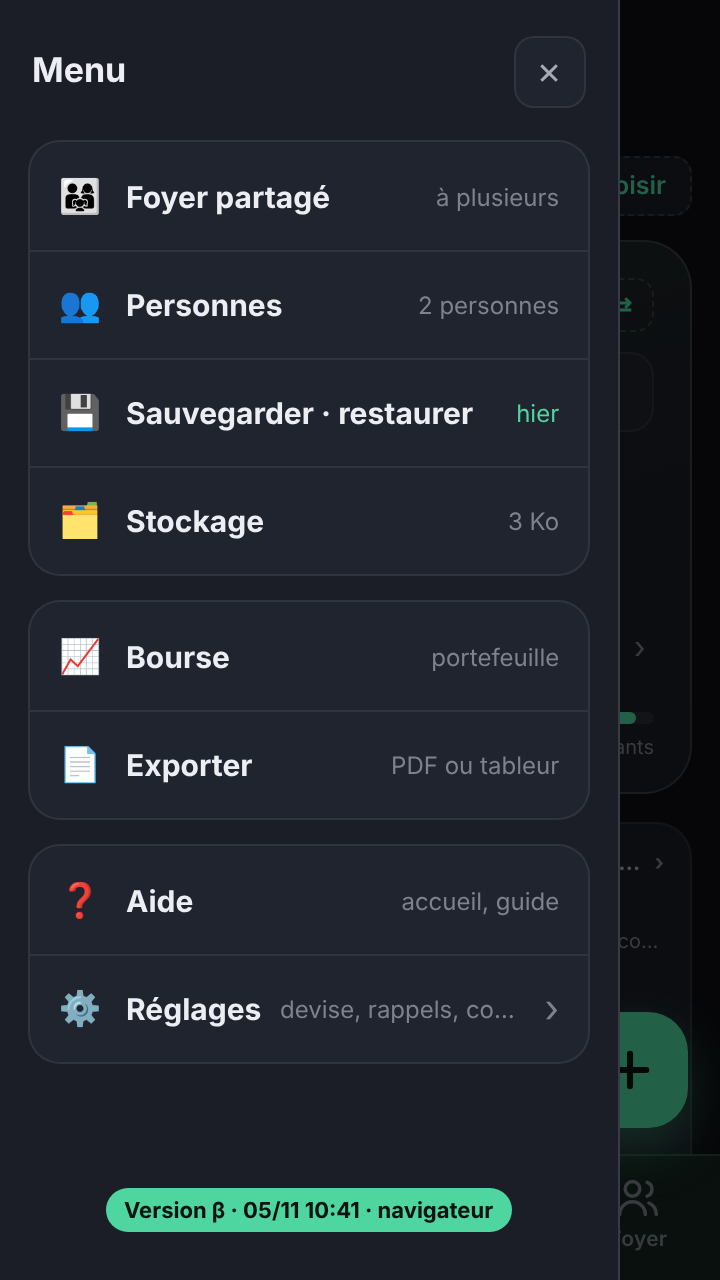
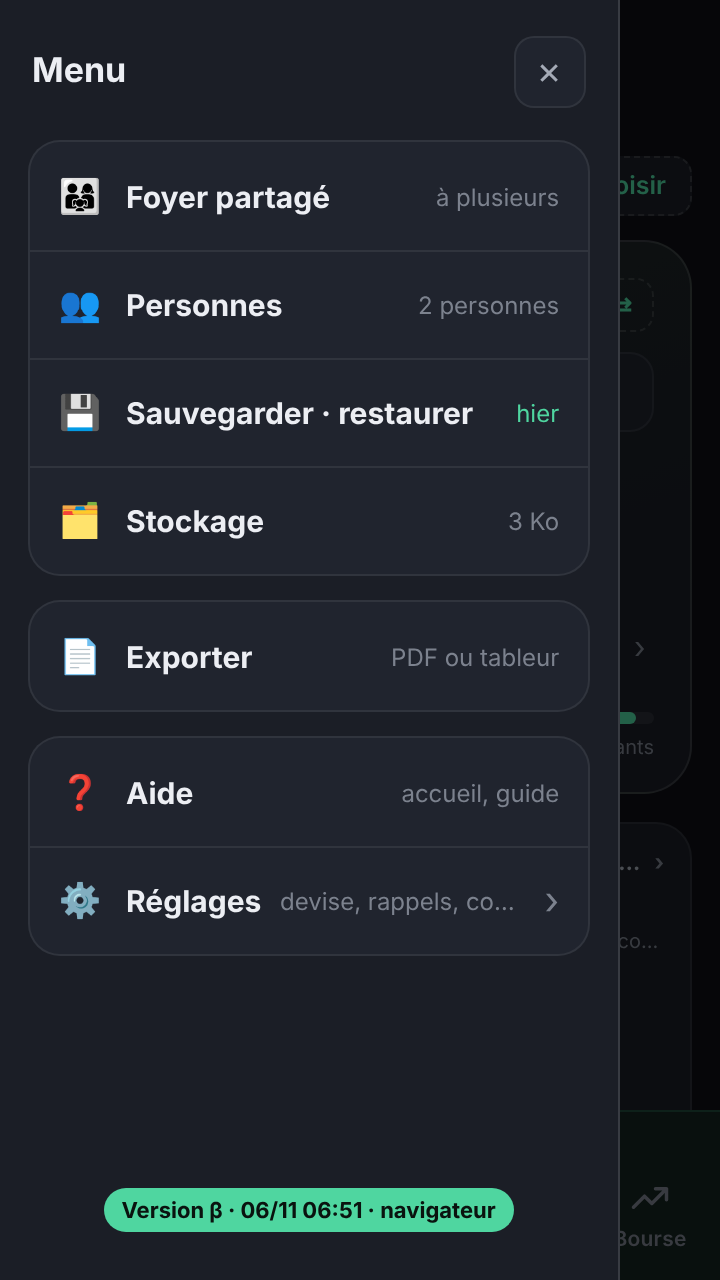
β Onglet Bourse remis dans la barre (version Perso)
Claude-Session: https://claude.ai/code/session_01DFHRDgPHTA6tdzp535Df1t

diff --git a/beta/index.html b/beta/index.html
@@ -5,7 +5,7 @@
   <meta name="viewport" content="width=device-width, initial-scale=1, viewport-fit=cover" />
   <meta name="theme-color" content="#13151b" />
   <title>Tickets β</title>
-  <meta name="build" content="06/11 06:51" />
+  <meta name="build" content="06/11 06:53" />
   <link rel="manifest" href="./manifest.webmanifest" />
   <style>
     :root{
@@ -1436,7 +1436,7 @@
                fyFull ? row("persons","👥","Personnes",plist.length+" personne"+(plist.length>1?"s":"")) : "",
                !fyM ? (drvOn() ? row("backup","💾","Sauvegarder · restaurer",drvMenuLabel().t,drvMenuLabel().col) : row("backup","💾","Sauvegarder · restaurer",bk.label,(bk.days===null || bk.days>=7)?"var(--coral)":"var(--accent)")) : row("backup","💾","Sauvegarder · restaurer",drvCfg().on ? "Mes comptes · Drive" : "Mes comptes"),
                row("stockage","🗂","Stockage",fmtBytes(photosBytes()+dataBytes())) ]);
-      h+=grp([ (FEAT.bourse && (!fyM || fyTabOn(fyCfg,"bourse"))) ? row("bourse","📈","Bourse","portefeuille") : "", row("pdf","📄","Exporter","PDF ou tableur") ]);
+      h+=grp([ row("pdf","📄","Exporter","PDF ou tableur") ]);
       h+=grp([ row("aide","❓","Aide","accueil, guide"), row("settings","⚙","Réglages",[fyFull?"devise":"", "rappels", "code", !fyM?"restaurer":""].filter(function(x){ return x; }).join(", "),"",true) ]);
       h+='<div class="dr-foot"><span class="beta-tag">Version β · '+esc((document.querySelector('meta[name=build]')||{}).content||'')+(capNative()?(EDITION==="store"?' · appli Store':' · appli Perso'):' · navigateur'+(EDITION==="store"?' (Store)':''))+'</span></div>';
       h+='</div>';
@@ -1446,7 +1446,7 @@
       function closeAnim(){ ov.classList.remove("open"); setTimeout(closeMenu, 200); }
       ov.onclick=function(e){ if(e.target===ov) closeAnim(); };
       ov.querySelector(".dr-x").onclick=closeAnim;
-      var acts={ bourse:function(){ state.bSub=null; state.view="bourse"; render(); window.scrollTo(0,0); }, settings:openSettings, import:function(){ impStart(null); }, gallery:function(){ state.view="gallery"; render(); window.scrollTo(0,0); }, stockage:function(){ state.view="stockage"; render(); window.scrollTo(0,0); }, aide:openAide, plus:function(){ plusShow(null); }, perso:espaceAsk, foyer:persoOn() ? espaceFoyer : function(){ state.view="foyer"; render(); window.scrollTo(0,0); }, backup:backupData, restore:function(){ restorein.click(); }, lockSetup:lockSetup, lockBio:lockEnableBio, lockOff:lockDisable, devise:chooseCurrency, pdf:exportChoose, persons:managePersons };
+      var acts={ settings:openSettings, import:function(){ impStart(null); }, gallery:function(){ state.view="gallery"; render(); window.scrollTo(0,0); }, stockage:function(){ state.view="stockage"; render(); window.scrollTo(0,0); }, aide:openAide, plus:function(){ plusShow(null); }, perso:espaceAsk, foyer:persoOn() ? espaceFoyer : function(){ state.view="foyer"; render(); window.scrollTo(0,0); }, backup:backupData, restore:function(){ restorein.click(); }, lockSetup:lockSetup, lockBio:lockEnableBio, lockOff:lockDisable, devise:chooseCurrency, pdf:exportChoose, persons:managePersons };
       [].forEach.call(ov.querySelectorAll(".dr-row"), function(b){ b.onclick=function(){ var fn=acts[b.getAttribute("data-k")]; closeMenu(); if(fn) fn(); }; });
     }
     // Âge de la dernière sauvegarde, en jours de calendrier (une sauvegarde de la veille au soir = « hier »)
@@ -3605,14 +3605,15 @@
     var restorein = document.getElementById("restorein");
 
     var navEl=document.createElement("nav"); navEl.className="nav hidden"; navEl.id="nav";
-    // Barre du bas (refonte du 05/11) : 5 onglets Accueil · Opérations · Budget · À venir · Foyer et un seul « + » ; la Bourse (Perso) est dans le menu.
+    // Barre du bas (refonte du 05/11) : 5 onglets Accueil · Opérations · Budget · À venir · Foyer (+ Bourse dans la version Perso) et un seul « + ».
     var NAV_IC={ list:"M3 11l9-7 9 7v9a1 1 0 0 1-1 1h-5v-6H9v6H4a1 1 0 0 1-1-1z", compte:"M8 6h13M8 12h13M8 18h13M3.5 6h.01M3.5 12h.01M3.5 18h.01",
       depenses:"M12 3a9 9 0 1 0 9 9h-9zM15 3.5A9 9 0 0 1 20.5 9H15z", factures:"M4 5h16v16H4zM4 10h16M9 3v4M15 3v4",
-      communes:"M9 11a4 4 0 1 0 0-8 4 4 0 0 0 0 8zM2 21a7 7 0 0 1 14 0M17 3.5a4 4 0 0 1 0 7.5M22 21a7 7 0 0 0-4-6.3" };
+      communes:"M9 11a4 4 0 1 0 0-8 4 4 0 0 0 0 8zM2 21a7 7 0 0 1 14 0M17 3.5a4 4 0 0 1 0 7.5M22 21a7 7 0 0 0-4-6.3",
+      bourse:"M3 17l6-6 4 4 8-8M15 7h6v6" };
     function navBtn(v, l){ return '<button class="navi" type="button" data-view="'+v+'"><svg viewBox="0 0 24 24" fill="none" stroke="currentColor" stroke-width="1.9" stroke-linecap="round" stroke-linejoin="round" aria-hidden="true"><path d="'+NAV_IC[v]+'"/></svg><span>'+l+'</span></button>'; }
     navEl.innerHTML=
       '<div class="navplusrow"><button id="navplus" class="navplus" type="button" aria-label="Ajouter"><svg width="28" height="28" viewBox="0 0 24 24" fill="none" stroke="currentColor" stroke-width="2.6" stroke-linecap="round" aria-hidden="true"><path d="M12 5v14M5 12h14"/></svg></button></div>'+
-      '<div class="navtabs">'+navBtn("list","Accueil")+navBtn("compte","Opérations")+navBtn("depenses","Budget")+navBtn("factures","À venir")+navBtn("communes","Foyer")+'</div>';
+      '<div class="navtabs">'+navBtn("list","Accueil")+navBtn("compte","Opérations")+navBtn("depenses","Budget")+navBtn("factures","À venir")+navBtn("communes","Foyer")+(FEAT.bourse ? navBtn("bourse","Bourse") : "")+'</div>';
     document.body.appendChild(navEl);
     [].forEach.call(navEl.querySelectorAll(".navi"), function(b){
       b.onclick=function(){ var v=b.getAttribute("data-view"); if(v==="depenses") v=depView(); if(v==="list"){ state.listSub=null; state.catFilter=null; } if(v==="analyse") state.histMonth=null; state.artFrom=null; if(v==="articles"){ state.artSel=null; state.artSub=null; } if(v==="analyse") state.anSub=null; if(v==="communes") state.comSub=null; if(v==="bourse") state.bSub=null; state.view=v; render(); window.scrollTo(0,0); };

diff --git a/tests/t131.py b/tests/t131.py
@@ -1,5 +1,5 @@
 # Refonte, étape 1 : barre à 5 onglets (Accueil · Opérations · Budget · À venir · Foyer) et un seul « + » (Accueil et Opérations). Données inventées.
-# 1. Propriétaire : les 5 onglets, pas de Bourse dans la barre (dans le menu en Perso), titres Opérations / Budget / Foyer.
+# 1. Propriétaire : les 5 onglets (+ Bourse en Perso, 06/11), titres Opérations / Budget / Foyer.
 # 2. « + » : scanner, galerie, saisir, virement reçu / envoyé, frais fixe, importer un relevé ; « Virement reçu » ouvre le formulaire.
 # 3. Membre en consultation : pas de « + ». Membre avec seulement l'Accueil en modification : « + » limité aux tickets.
 import sys, os, json
@@ -38,12 +38,9 @@ with sync_playwright() as p:
         return ks
     # ---------- 1. propriétaire (Perso : la Bourse passe dans le menu)
     pg=page(base)
-    check(tabs(pg)==["Accueil","Opérations","Budget","À venir","Foyer"], "5 onglets : %s" % tabs(pg))
-    check(pg.locator('#nav .navi[data-view="bourse"]').count()==0, "pas de Bourse dans la barre")
-    pg.locator("#hmenu").click(); pg.wait_for_timeout(300)
-    check(pg.locator('.dr-row[data-k="bourse"]').count()==1, "Bourse dans le menu (édition Perso)")
-    pg.locator('.dr-row[data-k="bourse"]').click(); pg.wait_for_timeout(600)
-    check(pg.evaluate("()=>document.querySelector('.htitle') && document.querySelector('.htitle').textContent")=="Bourse", "menu › Bourse ouvre la Bourse")
+    check(tabs(pg)==["Accueil","Opérations","Budget","À venir","Foyer","Bourse"], "Perso : 5 onglets + Bourse : %s" % tabs(pg))
+    pg.locator('#nav .navi[data-view="bourse"]').click(); pg.wait_for_timeout(600)
+    check(pg.evaluate("()=>document.querySelector('.htitle') && document.querySelector('.htitle').textContent")=="Bourse", "onglet Bourse ouvre la Bourse")
     for v,t in [("compte","Opérations"),("depenses","Budget"),("communes","Foyer")]:
         pg.locator('#nav .navi[data-view="%s"]' % v).click(); pg.wait_for_timeout(600)
         check(norm(pg.locator(".htitle").first.inner_text())==t, "titre de l'onglet : %s" % t)

diff --git a/tests/t95.py b/tests/t95.py
@@ -25,10 +25,10 @@ with sync_playwright() as p:
         pg.evaluate("d=>{localStorage.clear(); for(const k in d) localStorage.setItem(k, JSON.stringify(d[k]));}", d); pg.reload(); pg.wait_for_timeout(900)
         return c, pg, errs
     c, pg, errs = ctx(APP)
-    check(tabs(pg)==["Accueil","Opérations","Budget","À venir","Foyer"], "barre : Accueil · Dépenses · Compte · À venir · Commun · Bourse %s"%tabs(pg))
+    check(tabs(pg)==["Accueil","Opérations","Budget","À venir","Foyer","Bourse"], "barre : Accueil · Opérations · Budget · À venir · Foyer · Bourse %s"%tabs(pg))
     pg.locator("#hmenu").click(); pg.wait_for_timeout(300)
     rows=pg.evaluate("()=>[].map.call(document.querySelectorAll('.dr-row'), r=>r.dataset.k)"); pg.locator(".dr-x").click(); pg.wait_for_timeout(300)
-    check(rows==["foyer","persons","backup","stockage","bourse","pdf","aide","settings"], "menu allégé : Foyer, Personnes, Sauvegarder, Stockage, PDF, Aide, Réglages %s"%rows)
+    check(rows==["foyer","persons","backup","stockage","pdf","aide","settings"], "menu allégé : Foyer, Personnes, Sauvegarder, Stockage, PDF, Aide, Réglages %s"%rows)
     pg.locator('#nav .navi[data-view="depenses"]').click(); pg.wait_for_timeout(500)
     check(dp(pg)==["Tickets","Produits","Budgets","Analyse"] and dpon(pg)=="Tickets" and pg.locator(".htitle").inner_text()=="Budget", "Dépenses : 4 sous-onglets, Tickets d'abord %s"%dp(pg))
     t=norm(pg.locator("#app").inner_text())

diff --git a/tests/t72.py b/tests/t72.py
@@ -23,7 +23,7 @@ with sync_playwright() as p:
         sh=pg.evaluate("()=>{ const d=document.querySelector('.drawer'); return [d.scrollHeight, d.clientHeight]; }")
         rows=pg.evaluate("()=>[...document.querySelectorAll('.drawer .dr-row')].map(r=>r.getAttribute('data-k')+' | '+r.textContent)"); print(W, sh, rows)
         check(sh[0]<=sh[1]+1, "%d×%d : le menu tient sans défiler (%d ≤ %d)" % (W,H,sh[0],sh[1]))
-        check([r.split(" | ")[0] for r in rows]==["foyer","persons","backup","stockage","bourse","pdf","aide","settings"], "%d : ordre Foyer, Personnes, Sauvegarder, Stockage, Bourse (Perso, depuis la refonte), PDF, Aide, Réglages" % W)
+        check([r.split(" | ")[0] for r in rows]==["foyer","persons","backup","stockage","pdf","aide","settings"], "%d : ordre Foyer, Personnes, Sauvegarder, Stockage, PDF, Aide, Réglages" % W)
         check(any("Sauvegarder" in r and "hier" in r for r in rows), "%d : sauvegarde d'hier soir → « hier » (pas « aujourd'hui »)" % W)
         check(pg.locator(".drawer .dr-sec").count()==0, "%d : plus de titres de rubrique" % W)
         if W==412:

diff --git a/tests/t81.py b/tests/t81.py
@@ -38,7 +38,7 @@ with sync_playwright() as p:
     check(pg.locator(".thero svg polyline[style*='dasharray']").count()==1, "graphique : la Bourse en pointillés")
     pg.screenshot(path=os.path.join(SP,"t81_ep.png"), full_page=True)
     pg.locator(".epbourse").click(); pg.wait_for_timeout(600)
-    check(pg.evaluate("()=>document.querySelector('.htitle') && document.querySelector('.htitle').textContent")=="Bourse", "toucher la ligne Bourse ouvre la Bourse (dans le menu depuis la refonte)")
+    check(pg.evaluate("()=>document.querySelector('#nav .navi.on') && document.querySelector('#nav .navi.on').getAttribute('data-view')")=="bourse", "toucher la ligne Bourse ouvre l'onglet Bourse")
     # B. pas liée : la ligne est créée toute seule
     d=copy.deepcopy(base); d["epargne"]=[d["epargne"][0]]
     load(d); E=ls("epargne"); print("  épargne :", [(c["nom"], c.get("bourseLink"), c["vals"]) for c in E])

diff --git a/tests/t92.py b/tests/t92.py
@@ -31,7 +31,7 @@ with sync_playwright() as p:
         return c, pg, errs
     # ---------- Perso ----------
     c, pg, errs = ctx_for(APP)
-    check(tabs(pg)==["Accueil","Opérations","Budget","À venir","Foyer"], "barre : « À venir » à la place de « Factures » %s"%tabs(pg))
+    check(tabs(pg)==["Accueil","Opérations","Budget","À venir","Foyer","Bourse"], "barre : « À venir » à la place de « Factures » %s"%tabs(pg))
     pg.locator('#nav .navi[data-view="factures"]').click(); pg.wait_for_timeout(500)
     t=norm(pg.locator("#app").inner_text())
     check(avtabs(pg)==["12 mois","Frais fixes","Provisions","Factures"] and avon(pg)=="12 mois", "À venir : 4 sous-onglets, 12 mois d'abord %s"%avtabs(pg))

diff --git a/CLAUDE.md b/CLAUDE.md
@@ -76,7 +76,7 @@ Appli de suivi des dépenses d'un foyer (tickets de caisse, comptes, frais fixes
 
 - **Carte du haut des onglets** (`.thero`, `fitHero`) : elle grandit pour remplir l'écran, mais le graphique n'est **jamais réduit** sous sa hauteur normale (`CHB ≥ 0`) ; sans la place, la carte garde sa hauteur entière et la page défile (décision du 02/11).
 - **Accueil** : graphiques choisis par l'utilisateur (`homeCharts`, bouton ⚙ Choisir, appui long sur une carte), grande carte du haut au choix (`homeTop`, hauteur fixe 300 px) ; puces ✍ Saisie et 🧾 Tickets (→ Dépenses › Tickets) ; bouton personne en haut à droite. Rien sous les graphiques. Petits graphiques en pages à glisser (`pagerHTML`, `wirePagers`) : la page vue est gardée dans `pgPos`, seulement quand on l'a choisie (glisser, flèches, puces) ; un défilement dû à la mise en page ne la change pas, et un `ResizeObserver` remet la même page quand la largeur arrive ou change.
-- **Onglets** (refonte du 05/11, étape 1) : barre du bas à 5 onglets avec icônes, Accueil (`list`) · Opérations (`compte`) · Budget (`depenses`, ex Dépenses) · À venir (`factures`) · Foyer (`communes`, ex Commun) (`navBtn`, `NAV_IC`) ; la Bourse (Perso) est dans le menu. Un seul bouton « + » (`#navplus`, `plusSheet`, `plusOpts` selon les droits : scanner, galerie, saisir, virement reçu / envoyé, frais fixe, importer un relevé ; rond, posé au milieu sur le haut de la barre, seulement sur l'Accueil et Opérations ; caché par `.noplus` ailleurs ou quand rien n'est permis). Test t131. Plan de la refonte dans JOURNAL.md (étapes 2 à 5). Chaque onglet a ses sous-onglets en boutons `.avtabs` sous le titre (pas de page « Configuration » ni de bouton retour pour passer de l'un à l'autre). ✦ = Tickets Plus : on voit la fonction (`.fct-teaser`), seul le bouton demande Plus.
+- **Onglets** (refonte du 05/11, étape 1) : barre du bas à 5 onglets avec icônes, Accueil (`list`) · Opérations (`compte`) · Budget (`depenses`, ex Dépenses) · À venir (`factures`) · Foyer (`communes`, ex Commun) (`navBtn`, `NAV_IC`), plus l'onglet Bourse dans la version Perso. Un seul bouton « + » (`#navplus`, `plusSheet`, `plusOpts` selon les droits : scanner, galerie, saisir, virement reçu / envoyé, frais fixe, importer un relevé ; rond, posé au milieu sur le haut de la barre, seulement sur l'Accueil et Opérations ; caché par `.noplus` ailleurs ou quand rien n'est permis). Test t131. Plan de la refonte dans JOURNAL.md (étapes 2 à 5). Chaque onglet a ses sous-onglets en boutons `.avtabs` sous le titre (pas de page « Configuration » ni de bouton retour pour passer de l'un à l'autre). ✦ = Tickets Plus : on voit la fonction (`.fct-teaser`), seul le bouton demande Plus.
 - **Dépenses** (bouton de nav `data-view="depenses"` → `depView()`) : sous-onglets Tickets · Produits · Budgets · Analyse (`depSubs`, `state.depSub`, `depTabsHTML`, `wireDepTabs`, `depCur`). Tickets = vue `tickets` (`renderList` en mode Dépenses : liste du mois + ligne « Photos des tickets » → galerie) ; Produits = `renderArticles` (Mes produits, Hausses, Magasins, Familles) ; Budgets = `renderArticles` avec le seul onglet Budgets ; Analyse = `renderAnalyse`. `setNav` allume Dépenses pour les vues articles, analyse et tickets. Dans un foyer, Tickets suit l'Accueil, Produits et Budgets l'onglet `articles`, Analyse l'onglet `analyse`. Produits partagés reste dans Commun.
 - **Accueil en diapos** (section `// ---------- Accueil en diapos`) : `welcomeSlides()` (propriétaire : 4 cartes illustrées par des captures de l'appli `beta/vitrine/*.jpg` — Bienvenue, Scanne, Importe ton relevé OFX/QIF/CSV, Vois ce qui arrive ; membre : 2 cartes), `wlcCardHTML` (carte commune : capture, titre, texte ou liste, étiquettes, note, lien Plus), `welcomeShow(after)`, `welcomeAuto()` (une fois, après le code ; clés `welcomeSeen` / `welcomeFy`) ; `openAide()` (Menu › Aide). Dans les tests, `horloge.py` pose `window.__tkNoWelcome` (l'accueil ne s'ouvre pas tout seul) ; pour le tester, `window.__wlcTest` par un script de contexte (voir t115).
 - **Mode démo** (section `// ---------- Mode démo`) : `DEMO` (drapeau `__demo` dans localStorage, ou `?demo` dans l'adresse) ; `store` préfixe alors toutes les clés par `demo:` (`SK`), donc les vraies données ne sont jamais lues ni écrites. `demoEnsure` (juste après `store`) crée le foyer inventé `demoSeed` (dates relatives à aujourd'hui, ids ≥ 8e11) ; `demoStart`, `demoQuit` (efface les clés `demo:` par `demoClear`, retire les photos prises en démo), `demoMenu` (pastille `#demoPill` : quitter, `demoFree` = version gratuite, repartir de l'exemple). En démo : `plusOwn()` = `!demoFree`, `fyCall`/`fySync` simulés, `npCall` refuse drive/widget/shared, pas de `rapSync`, `pushWidgets`, `fyEnsureLock`, `restoreApply`, `fyJoin`. Toute nouvelle connexion ou action sur le téléphone (notifications, fichiers partagés…) doit être coupée en démo. Test t130.

diff --git a/JOURNAL.md b/JOURNAL.md
@@ -19,7 +19,7 @@ Après chaque modification, dans le même commit :
 ## État actuel (31/10/2026)
 
 **Versions**
-- β web : `beta/index.html`, étiquette `06/11 06:51
+- β web : `beta/index.html`, étiquette `06/11 06:53
 ([^`, environ 9 800 lignes.
 - APK de test « Tickets Perso » (avec la Bourse) et « Tickets Store » (sans la Bourse), release `apk-beta`, recompilés quand la β ou l'appli Android change.
   - **Perso** : charge la β en ligne (chaque correction arrive tout de suite) et en garde une copie : sans réseau, elle ouvre la dernière version, avec les mêmes données.
@@ -210,6 +210,7 @@ Après chaque modification, dans le même commit :
 
 ### 06/11
 
+- **Onglet Bourse remis dans la barre (version Perso)** (« dans la version perso il faut l'onglet bourse ») : 6e onglet avec icône, plus de ligne Bourse dans le menu ; la Store garde 5 onglets. Tests t72, t81, t92, t95, t131 adaptés.
 - **Bouton « + » déplacé** (« il masque une partie de chaque onglet, pas besoin sur tous les onglets ») : rond, posé au milieu sur le haut de la barre (il ne cache plus rien), seulement sur l'Accueil et Opérations. t131 adapté.
 
 ### 05/11
